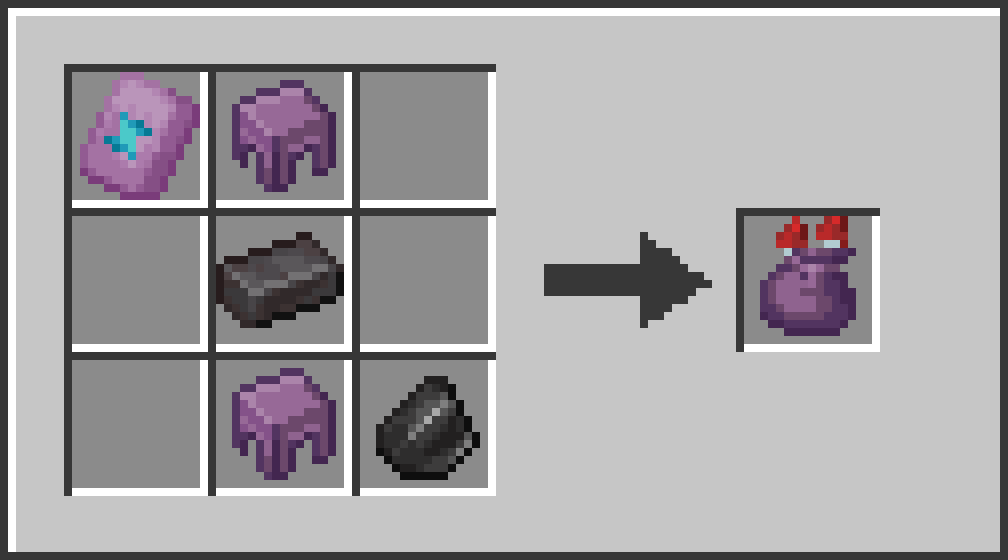
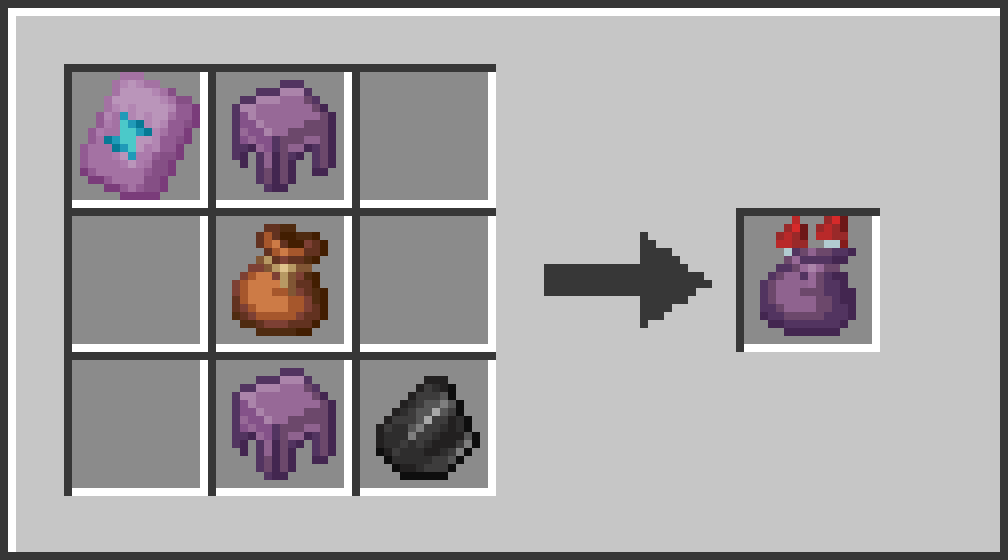
Use a bundle instead of a netherite ingot in the recipe

Changed region(s): [[0.2153, 0.3946, 0.3383, 0.6071]]

diff --git a/README.md b/README.md
@@ -10,7 +10,7 @@ The Rocket Pouch holds up to **320 firework rockets** (5 stacks) in a single slo
 
 ![Rocket Pouch recipe](docs/recipe.png)
 
-Spire Armor Trim, Shulker Shell, Netherite Ingot, Shulker Shell, Flint - shaped as shown.
+Spire Armor Trim, Shulker Shell, Bundle, Shulker Shell, Flint - shaped as shown.
 
 ## Usage
 
